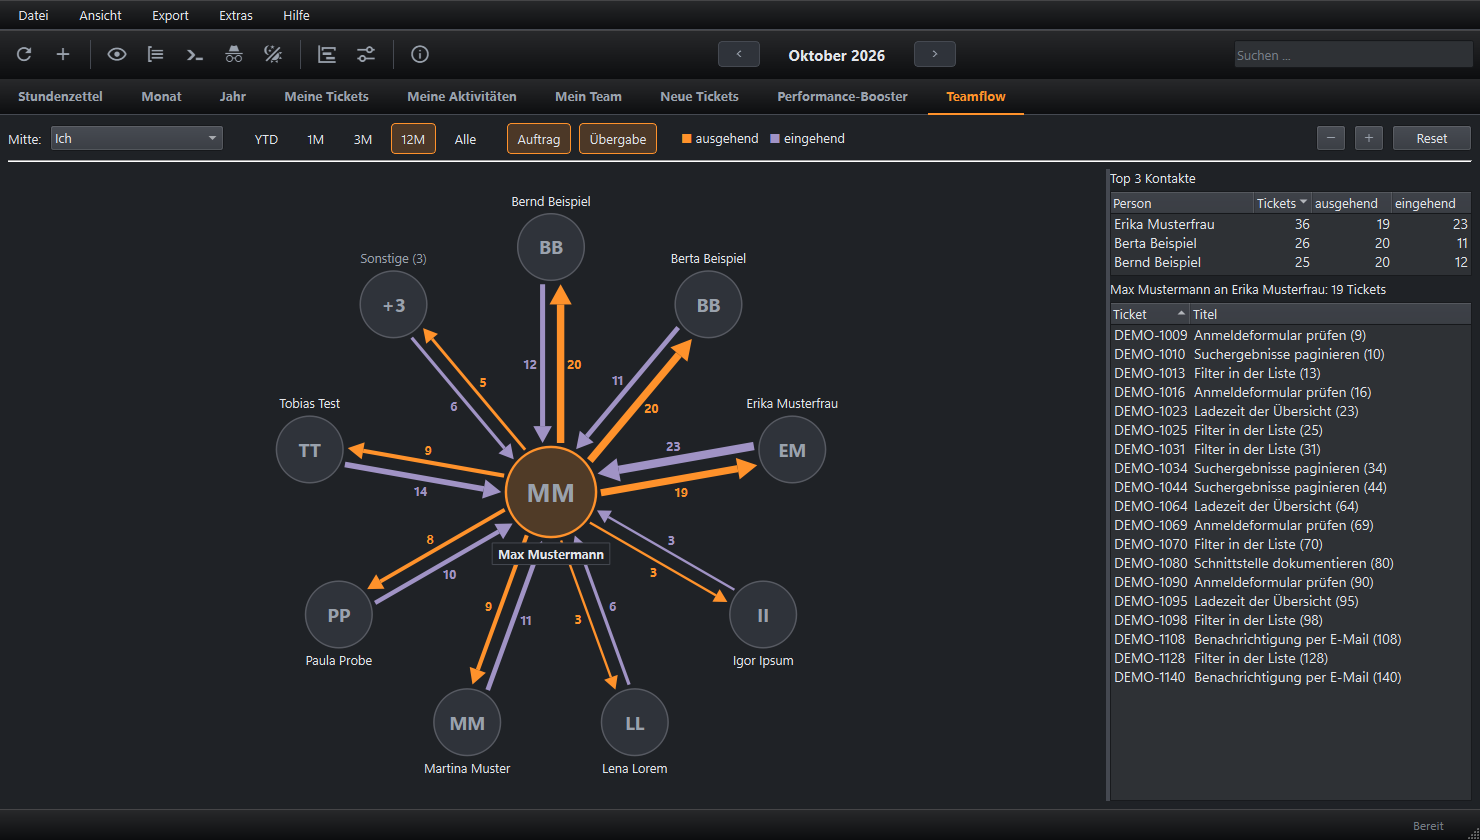
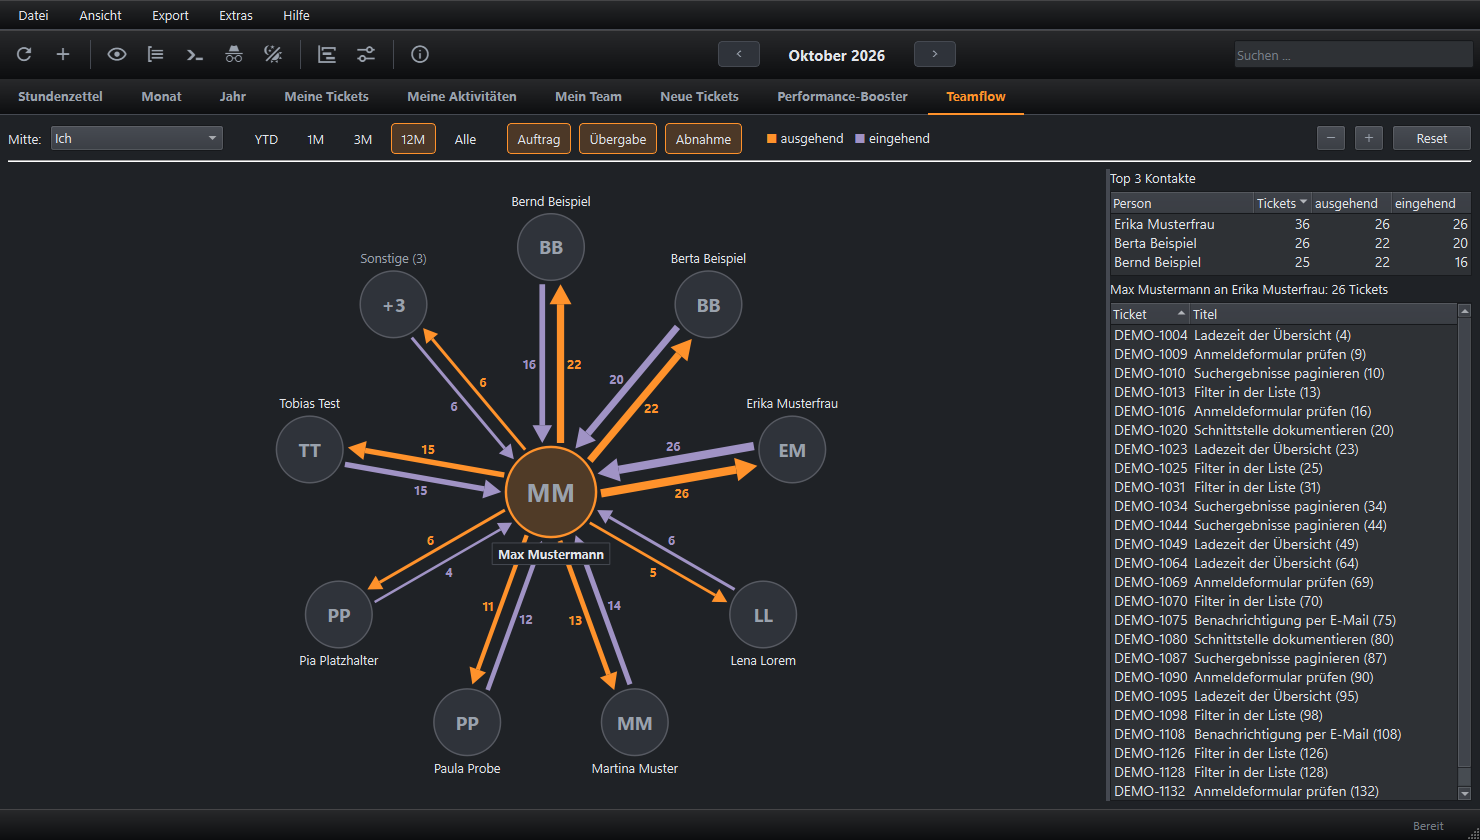
docs: Teamflow-Bilder und README mit der Pfeilart Abnahme

diff --git a/README.de.md b/README.de.md
@@ -180,7 +180,7 @@ Die Anwendung folgt dem hellen oder dunklen Erscheinungsbild und einer einstellb
   stehen getrennt im Performance-Booster. Im Kontextmenü jeder Ticketliste nimmt "X zu meinem Team hinzufügen" eine Person direkt auf.
 - **Neue Tickets** - Der Blick am Morgen: welche Tickets die Kolleginnen und Kollegen aus "Mein Team" zuletzt angelegt haben. Die Person wählst Du im Auswahlfeld, "Alle" steht vorn, den Zeitraum über 1T, 2T, 3T oder 7T. Gezählt wird in Arbeitstagen: 1T heißt seit Beginn des letzten Arbeitstags, am Montag also ab Freitag, und Feiertage zählen nicht mit. Die Anzahl steht im Reitertitel, und auf Wunsch öffnet der Reiter gleich beim Start. Rechts steht die Ticket-Vorschau
 - **Performance-Booster** - Kennzahlen je Person wie bei einer Aktie, für 1M, 3M, 6M oder seit Jahresbeginn und im Vergleich zur Vorperiode: erledigte und erstellte Tickets, Durchlaufzeit in aktiven Arbeitstagen, Arbeitstage je Story Point, Anteil kleiner Tickets und gebuchte Stunden. Dazu Diagramme und Hinweise mit verlinkten Tickets, etwa zu langen Tickets oder vielen kleinen. Gedacht zuerst für den Blick auf die eigene Arbeit, die Schwellen stehen in den Einstellungen
-- **Teamflow** - Wer wem Tickets gibt, als Stern um eine Person: Du selbst, jemand aus "Mein Team" oder wen Du im Stern anklickst. Gezählt werden Aufträge (Ersteller an den ersten Bearbeiter) und Übergaben (jeder Bearbeiterwechsel), beide getrennt schaltbar, für YTD, 1M, 3M, 12M oder alles. Bis zu acht Personen stehen alphabetisch im Kreis, der Rest unter "Sonstige". Ein Klick auf einen Pfeil zeigt seine Tickets, ein Klick auf eine Person setzt sie in die Mitte, über den Rechtsklick kommt sie in "Mein Team". Daneben stehen Deine Top 3 Kontakte. Die Profilbilder kommen aus Jira. Zoomen per Mausrad, verschieben per Ziehen. Das erste Laden dauert wenige Sekunden, weil Jira alle Änderungsverläufe in einem Abruf liefert
+- **Teamflow** - Wer wem Tickets gibt, als Stern um eine Person: Du selbst, jemand aus "Mein Team" oder wen Du im Stern anklickst. Gezählt werden Aufträge (Ersteller an den ersten Bearbeiter), Übergaben (jeder Bearbeiterwechsel) und Abnahmen (wer das Ticket beim Abschluss hatte, gibt es an den Ersteller zurück), jede Art getrennt schaltbar, für YTD, 1M, 3M, 12M oder alles. Bis zu acht Personen stehen alphabetisch im Kreis, der Rest unter "Sonstige". Ein Klick auf einen Pfeil zeigt seine Tickets, ein Klick auf eine Person setzt sie in die Mitte, über den Rechtsklick kommt sie in "Mein Team". Daneben stehen Deine Top 3 Kontakte. Die Profilbilder kommen aus Jira. Zoomen per Mausrad, verschieben per Ziehen. Das erste Laden dauert wenige Sekunden, weil Jira alle Änderungsverläufe in einem Abruf liefert
 - **Pile of Shame** - Markiert Tickets, deren Status Aktivität behauptet, obwohl es seit der
   Schwelle weder eine Änderung noch eine gebuchte Stunde gab. Die zweite Hälfte ist der
   Trick: ein bewusst offengehaltenes Dauerticket mit regelmäßigen Buchungen bleibt draußen,

diff --git a/README.md b/README.md
@@ -176,7 +176,7 @@ The application follows the light or dark theme and a configurable accent colour
   booster. "Add X to my team" in the context menu of every ticket list adds a person directly.
 - **New tickets** - The morning view: which tickets the colleagues on your "My team" list created recently. Pick a person in the drop-down, with "All" first, and a period with 1T, 2T, 3T or 7T. The period counts working days: 1T means since the start of the last working day, so on a Monday since Friday, and public holidays do not count. The count shows in the tab title, and the tab can open right on start. The ticket preview sits on the right
 - **Performance booster** - Figures per person, read like a stock chart, for 1M, 3M, 6M or year to date and compared with the previous period: tickets done and created, cycle time in active working days, working days per story point, share of small tickets and logged hours. With charts and hints that link the tickets behind them, for example long tickets or many small ones. Meant first of all as a look at your own work, the thresholds live in the settings
-- **Teamflow** - Who hands tickets to whom, drawn as a star around one person: you, someone from "My team" or anyone you click on. Arrows count orders (creator to first assignee) and handovers (each change of assignee), both switchable, for YTD, 1M, 3M, 12M or all time. Up to eight people stand in the circle in alphabetical order, everyone else under "Others". Click an arrow to list its tickets, click a person to move them to the middle, right-click to add them to "My team". Next to the star: your top 3 contacts. Profile pictures come from Jira. Zoom with the mouse wheel, drag to pan. The first load takes a few seconds, Jira hands over all change logs in one request
+- **Teamflow** - Who hands tickets to whom, drawn as a star around one person: you, someone from "My team" or anyone you click on. Arrows count orders (creator to first assignee), handovers (each change of assignee) and sign-offs (whoever had the ticket when it was done hands it back to the creator), each switchable, for YTD, 1M, 3M, 12M or all time. Up to eight people stand in the circle in alphabetical order, everyone else under "Others". Click an arrow to list its tickets, click a person to move them to the middle, right-click to add them to "My team". Next to the star: your top 3 contacts. Profile pictures come from Jira. Zoom with the mouse wheel, drag to pan. The first load takes a few seconds, Jira hands over all change logs in one request
 - **Pile of Shame** - Marks tickets whose status claims activity although there has been
   neither a change nor a logged hour since the threshold. The second half is the trick: a
   long-running ticket deliberately kept open, with regular bookings, stays out - no exception
